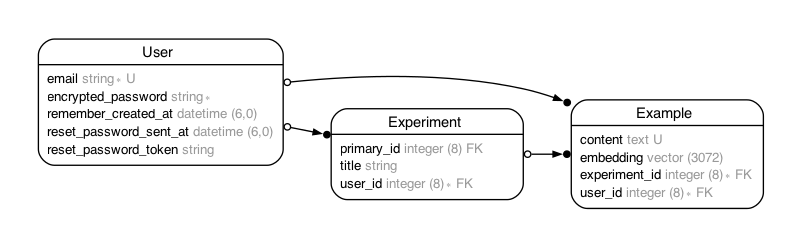
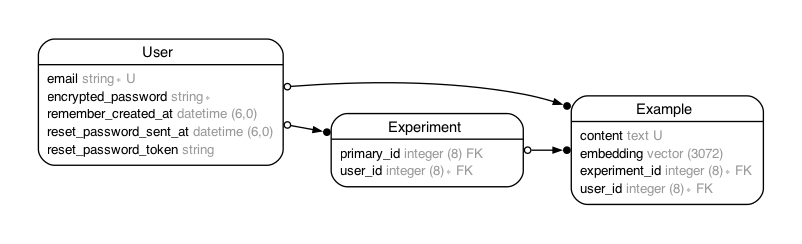
Better flow

diff --git a/app/models/experiment.rb b/app/models/experiment.rb
@@ -3,7 +3,6 @@
 # Table name: experiments
 #
 #  id         :bigint           not null, primary key
-#  title      :string
 #  created_at :datetime         not null
 #  updated_at :datetime         not null
 #  primary_id :bigint
@@ -20,13 +19,24 @@
 #  fk_rails_...  (user_id => users.id)
 #
 class Experiment < ApplicationRecord
-  auto_strip_attributes :title, squish: true
+  attr_accessor :primary_example
+
+  after_create :create_primary_example
 
   belongs_to :primary, class_name: "Example", optional: true
   belongs_to :user
   has_many :examples
 
+  def create_primary_example
+    the_primary_example = examples.create(
+      content: primary_example,
+      user: user
+    )
+
+    self.update(primary: the_primary_example)
+  end
+
   def to_s
-    primary ? primary.content : title
+    primary ? primary.content : "No primary example set"
   end
 end

diff --git a/app/models/example.rb b/app/models/example.rb
@@ -21,9 +21,8 @@
 #  fk_rails_...  (user_id => users.id)
 #
 class Example < ApplicationRecord
-  after_commit :set_first_primary
-
   auto_strip_attributes :content, squish: true
+  before_save :set_embedding
 
   validates :content, uniqueness: {scope: :experiment_id}
 
@@ -36,7 +35,16 @@ class Example < ApplicationRecord
     content
   end
 
-  def set_first_primary
-    experiment.update(primary_id: id) if experiment.primary.nil?
+  def set_embedding
+    client = OpenAI::Client.new
+    
+    response = client.embeddings(
+      parameters: {
+        model: "text-embedding-3-large",
+        input: content
+      }
+    )
+
+    self.embedding = response.dig("data", 0, "embedding")
   end
 end

diff --git a/app/controllers/examples_controller.rb b/app/controllers/examples_controller.rb
@@ -24,17 +24,6 @@ class ExamplesController < ApplicationController
     @example = Example.new(example_params)
     @example.user = current_user
 
-    client = OpenAI::Client.new
-    
-    response = client.embeddings(
-      parameters: {
-        model: "text-embedding-3-large",
-        input: @example.content
-      }
-    )
-
-    @example.embedding = response.dig("data", 0, "embedding")
-
     respond_to do |format|
       if @example.save
         format.html { redirect_to @example.experiment, notice: "Example was successfully created." }

diff --git a/app/controllers/experiments_controller.rb b/app/controllers/experiments_controller.rb
@@ -67,6 +67,6 @@ class ExperimentsController < ApplicationController
 
   # Only allow a list of trusted parameters through.
   def experiment_params
-    params.require(:experiment).permit(:primary_id, :user_id, :title)
+    params.require(:experiment).permit(:primary_id, :user_id, :primary_example)
   end
 end

diff --git a/db/schema.rb b/db/schema.rb
@@ -28,7 +28,6 @@ ActiveRecord::Schema[7.1].define(version: 2024_04_06_010355) do
 
   create_table "experiments", force: :cascade do |t|
     t.bigint "user_id", null: false
-    t.string "title"
     t.datetime "created_at", null: false
     t.datetime "updated_at", null: false
     t.bigint "primary_id"

diff --git a/db/migrate/20240406001900_create_experiments.rb b/db/migrate/20240406001900_create_experiments.rb
@@ -2,7 +2,6 @@ class CreateExperiments < ActiveRecord::Migration[7.1]
   def change
     create_table :experiments do |t|
       t.references :user, null: false, foreign_key: true
-      t.string :title
 
       t.timestamps
     end

diff --git a/spec/models/experiment_spec.rb b/spec/models/experiment_spec.rb
@@ -3,7 +3,6 @@
 # Table name: experiments
 #
 #  id         :bigint           not null, primary key
-#  title      :string
 #  created_at :datetime         not null
 #  updated_at :datetime         not null
 #  primary_id :bigint
